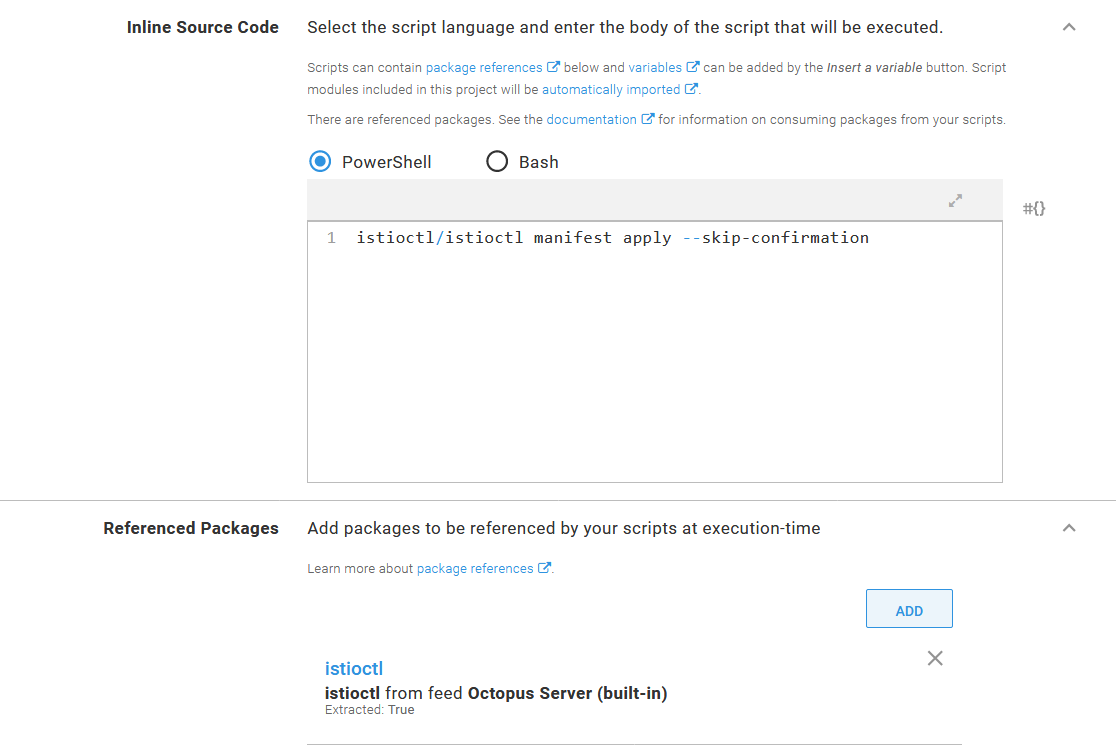
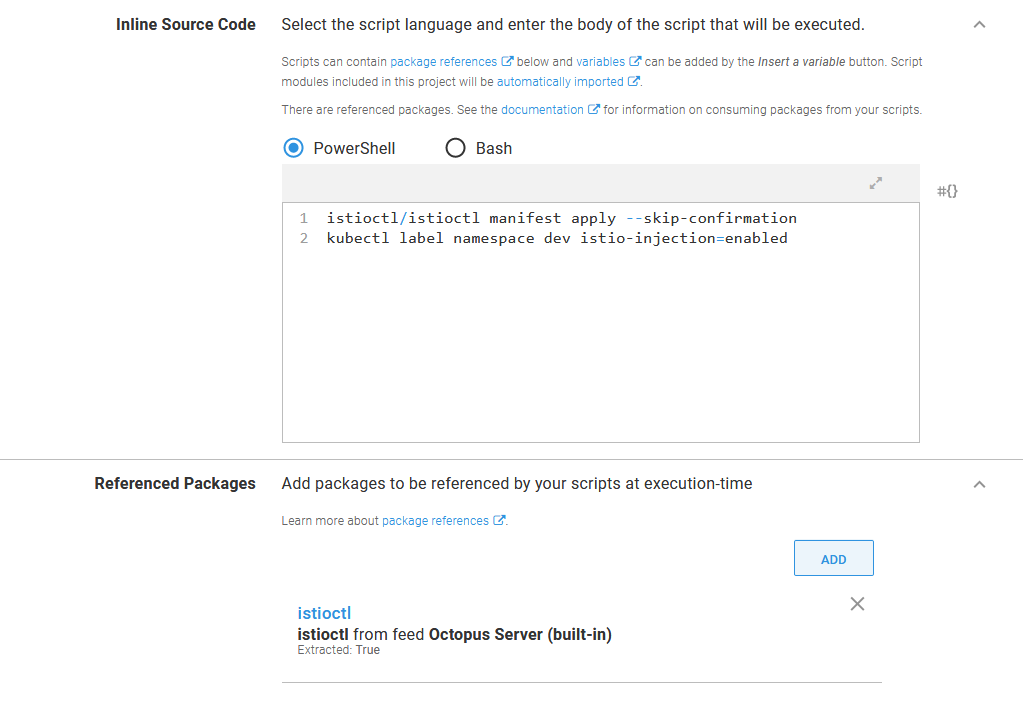
Added the injection label

diff --git a/blog/2020-05/ultimate-guide-to-k8s-microservice-deployments/index.md b/blog/2020-05/ultimate-guide-to-k8s-microservice-deployments/index.md
@@ -68,10 +68,11 @@ Add a **Run a kubectl CLI Script** step to a runbook, and reference the `istioct
 
 ![](istioctl-package.png "width=500")
 
-In the script body, execute `istioctl` as shown below to install Istio into the EKS cluster. You can find more information on these commands from the [Istio documentation](https://istio.io/docs/setup/install/istioctl/):
+In the script body, execute `istioctl` as shown below to install Istio into the EKS cluster. You can find more information on these commands from the [Istio documentation](https://istio.io/docs/setup/install/istioctl/). Then add the `istio-injection` label to the namespace that holds our application to enable [automatic Istio sidecar injection](https://istio.io/docs/setup/additional-setup/sidecar-injection/#automatic-sidecar-injection):
 
 ```
 istioctl/istioctl manifest apply --skip-confirmation
+kubectl label namespace dev istio-injection=enabled
 ```
 
 :::hint
@@ -315,6 +316,8 @@ Hipster Shop has been written in a variety of languages, and the frontend compon
 
 We'll build a Docker image from this branch and publish it as `octopussamples/microservicedemo-frontend:0.1.4-myfeature`. Note that the tag of `0.1.4-myfeature` is a SemVer string, which allows this image to be used as part of an Octopus deployment.
 
+### Deploying the feature branch
+
 In the Octopus project that deploys the frontend application, we define two channels. 
 
 The **Default** channel has a version rule that requires SemVer prerelease tags to be empty with a regular expression of `^$`. This rule ensures this channel only matches versions (or Docker tags in our case) like `0.1.4`.
@@ -325,8 +328,18 @@ We then add a variable to the deployment called `FeatureBranch` with the value o
 
 ![](project-variables.png "width=500")
 
+This variable is then appended to the deployment name, the deployment labels, and the service name. Changing the name of the deployment and service ensure we are creating new resources with the name of `frontend-MyFeature` alongside the existing resources called `frontend`:
+
 ![](featurebranch-deployment.png "width=500")
+*The summary text shows the name of the deployment and the labels*
+
 ![](featurebranch-service.png "width=500")
+*The summary text shows the name of the service*
+
+### Eposing the frontend via Istio
+
+To this point we have not deployed any Istio resources. The 
+
 
 ## Smoke testing
 
